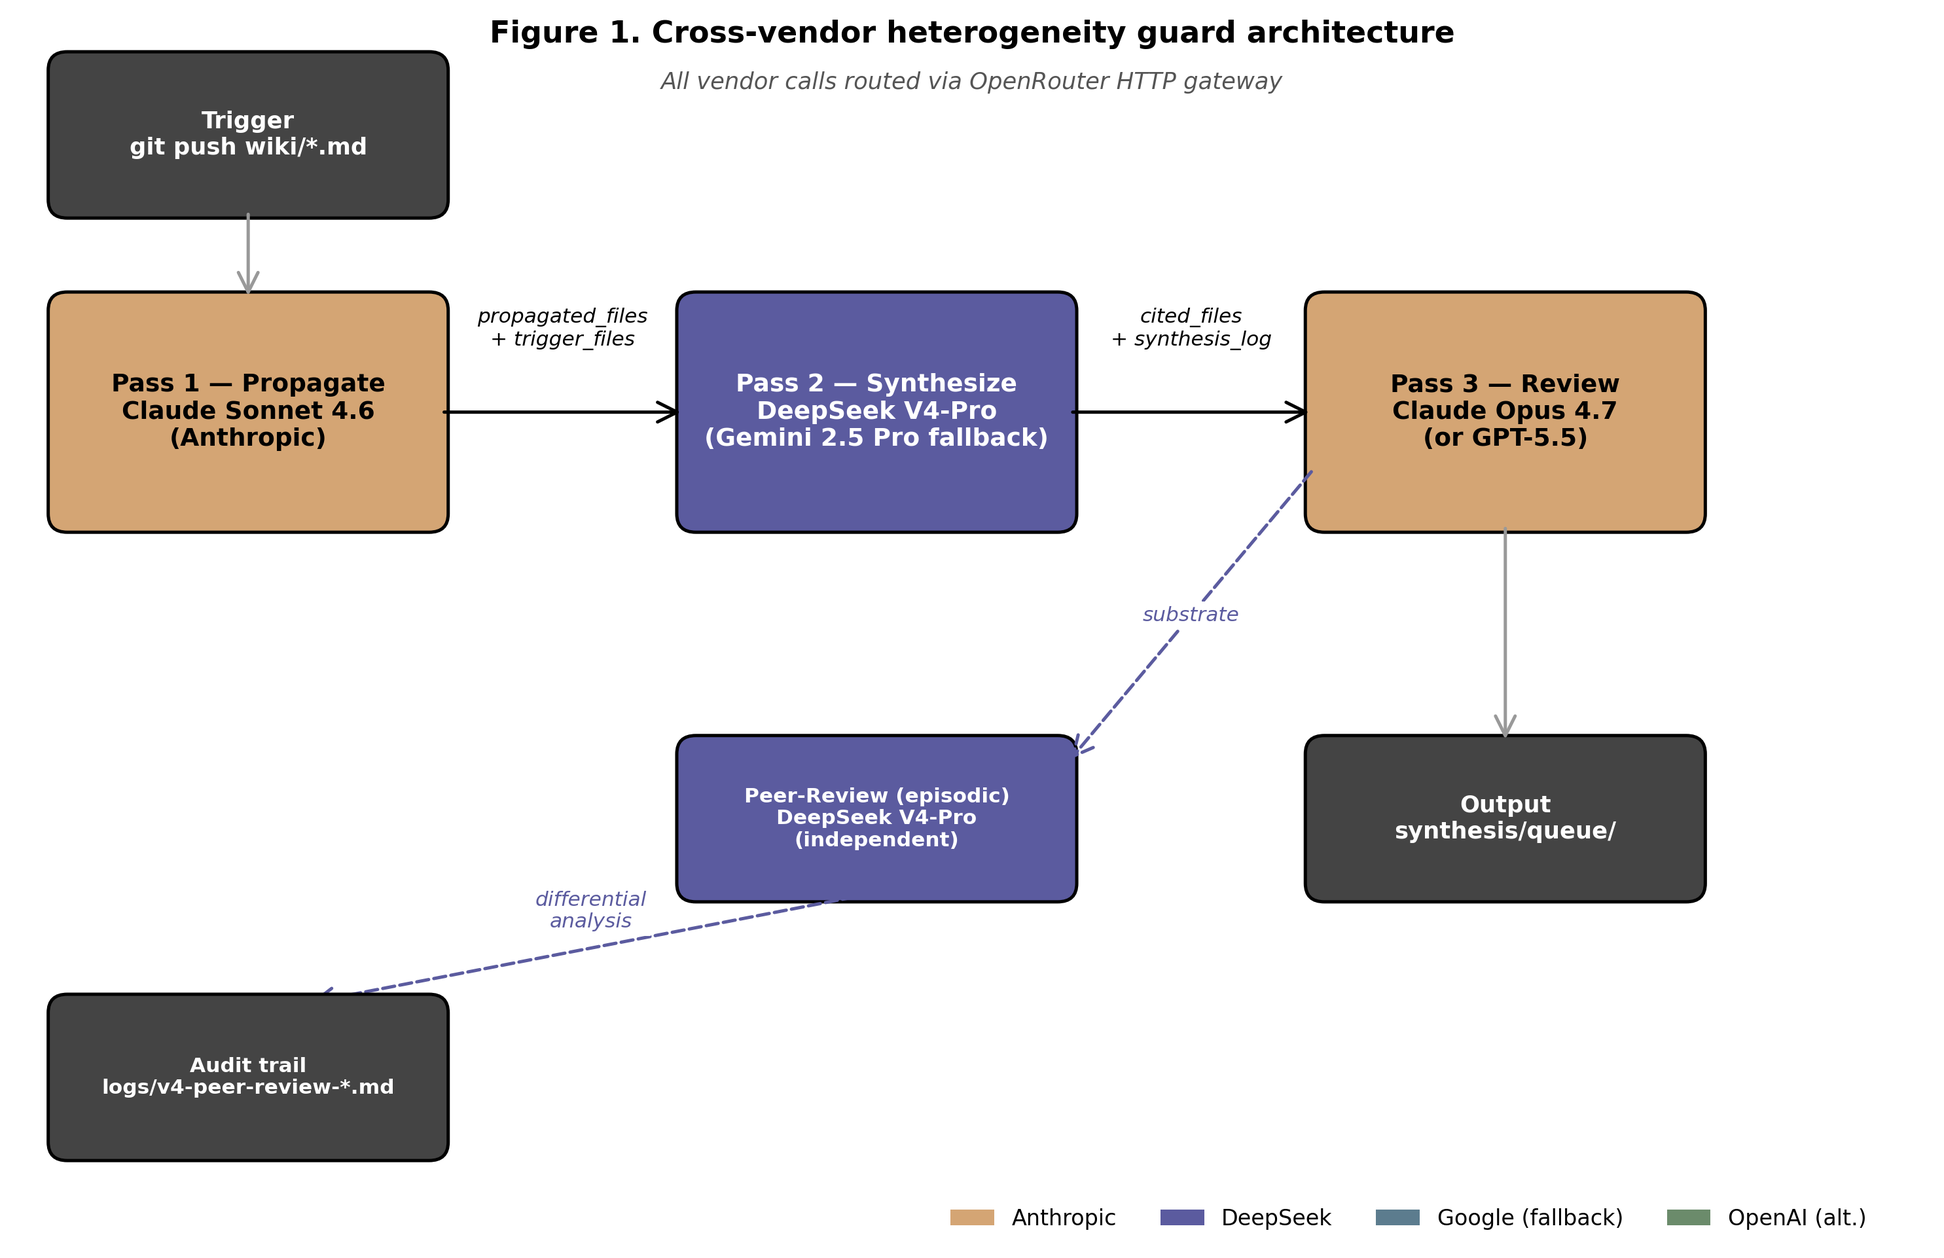
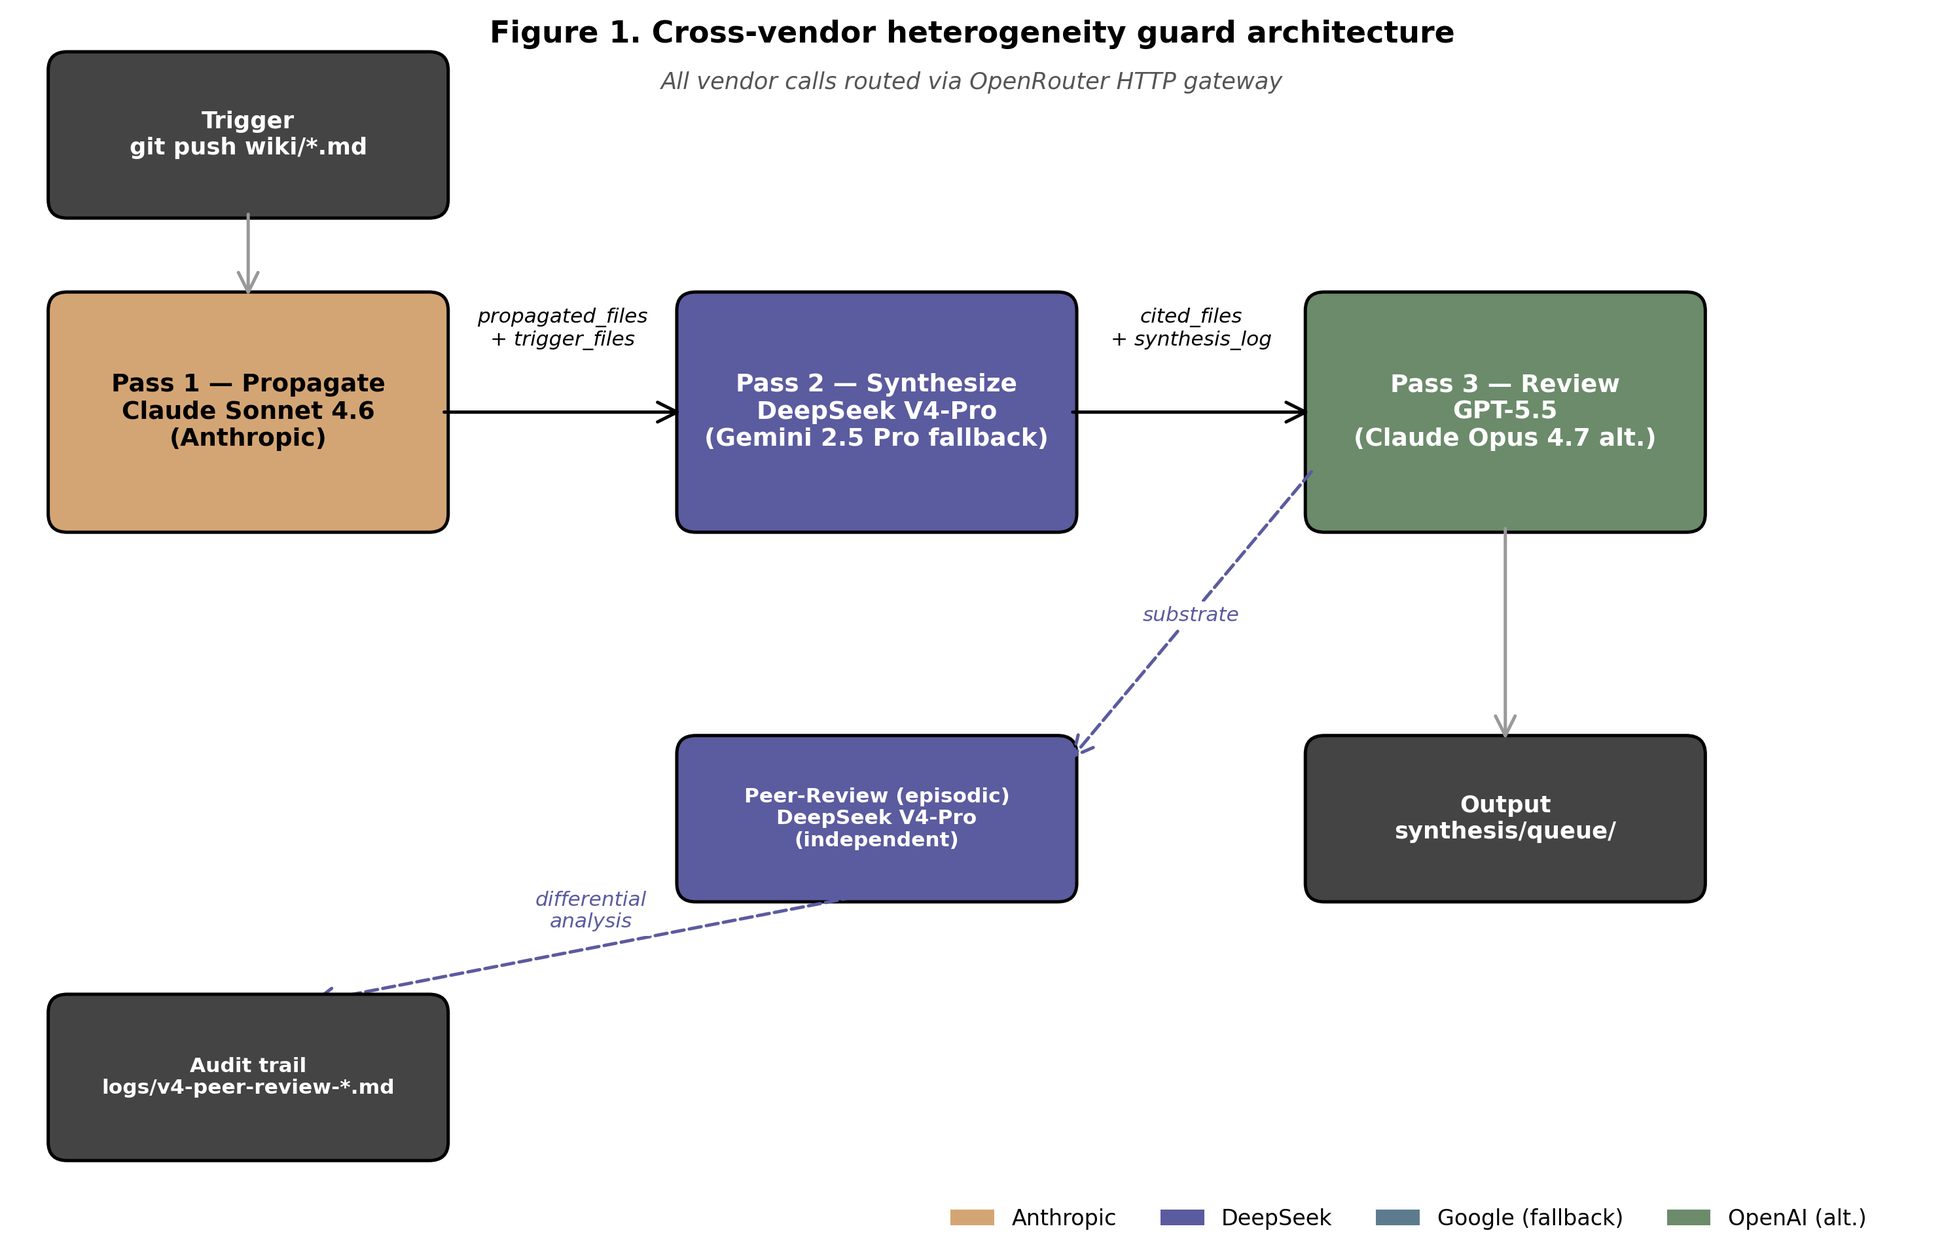
papers: catch 27 — Pass 3 default model corrected (GPT-5.5, not Opus) [skip-wiki-sweep]
Brian caught during his read that §3, Table 1, Figure 1, glossary,
and the abstract all said the Pass 3 reviewer was Anthropic Opus 4.7
primary with GPT-5.5 as alternate. Wrong. Per
.github/workflows/wiki-sweep.yml lines 22-24 and 351-357, GPT-5.5 has
been the default Pass 3 reviewer since 2026-05-08 (switched from Opus
after a three-way eval at evals/pass-3-reviewer/).

Corrections landed:
- §3 Pass 3 paragraph: leads with GPT-5.5, 2026-05-08 switch date,
  model-tuned prompt paths noted
- Table 1 row 3: GPT-5.5 default / Opus alternate
- Figure 1 Pass 3 box: GPT-5.5 with OpenAI green-grey color (not
  Anthropic amber); Claude Opus 4.7 demoted to "alt."
- Abstract vendor enumeration: Anthropic / DeepSeek / OpenAI (Gemini
  as Pass 2 alternate)
- Glossary Pass 2 + Pass 3 entries
- paperorchestra-workspace/inputs/experimental_log.md
- Figure 1 PDF + PNG regenerated

Logged in revisions.md as Catch 27 with the reflexive narrative:
Gemini's Session 7 review of §3 caught framing issues but did NOT
ground-truth-verify the Pass 3 model identity against the workflow
file. Cross-vendor review and pre-commit grep-verify gate are
complementary — review catches framing; grep-verify catches
factual mismatches with code. Future review prompts should
explicitly request architectural-claim verification against named
source files.

Changed region(s): [[0.6505, 0.2185, 0.8983, 0.437]]

diff --git a/papers/cross-vendor-heterogeneity-guard/figures/figure1_architecture.py b/papers/cross-vendor-heterogeneity-guard/figures/figure1_architecture.py
@@ -87,8 +87,8 @@ def main():
 
     # Pass 3
     make_box(ax, 6.8, 3.8, 2.0, 1.2,
-             "Pass 3 — Review\nClaude Opus 4.7\n(or GPT-5.5)",
-             fc=COLORS["anthropic"], text_color="black")
+             "Pass 3 — Review\nGPT-5.5\n(Claude Opus 4.7 alt.)",
+             fc=COLORS["openai"])
 
     # Inter-pass artifacts
     arrow(ax, 2.2, 4.4, 3.5, 4.4,

diff --git a/papers/cross-vendor-heterogeneity-guard/draft.md b/papers/cross-vendor-heterogeneity-guard/draft.md
@@ -9,7 +9,7 @@ Open Enzyme · brian.abent@gmail.com
 
 ## Abstract
 
-AI-assisted literature synthesis is becoming load-bearing infrastructure for scientific research. A new failure mode emerges when a single AI model is the sole synthesizer of a long-lived knowledge corpus: the corpus accumulates that model's blind spots and biases over time, with each individual edit plausible and internally consistent but the cumulative drift invisible without an outside reference. We call this drift *epistemic homogenization* and distinguish it from per-output hallucination. We argue that the right granularity of defense is **cross-vendor heterogeneity** — routing successive synthesis passes through frontier models trained by different companies, with different training corpora and different reinforcement-learning-from-human-feedback procedures. Existing multi-agent AI literature (debate, self-refine, jury-of-LLMs, Constitutional AI, automated-research systems) operates almost exclusively within a single vendor; the cross-vendor regime is under-explored as an explicit architectural commitment. We describe a production deployment of the cross-vendor pattern — the Open Enzyme wiki-sweep daemon, maintaining an ~80-page biotechnology research wiki via three operational passes assigned across Anthropic, DeepSeek, and Google models — and present four catches from ~3 weeks of operation that exemplify the failure classes the pattern protects against: a within-vendor hallucination cascade, an upstream-of-subagent framing contamination, an external-tool reliability failure, and a cross-vendor catch of a methodological risk invisible from within the dominant vendor's pipeline. The seminal catch — a DeepSeek peer-review pass surfacing the homogenization risk that the within-vendor pipeline had not named unprompted — is a concrete instance of the principle the architecture generalizes. We frame the contribution as a methodology case study with N=1 operational deployment and qualitative catches; controlled ablations comparing cross-vendor against alternative review architectures remain future work. The manuscript is drafted using its own methodology; a logged self-catch during drafting is preserved as the cleanest available reflexive evidence that the guard applies to its own production.
+AI-assisted literature synthesis is becoming load-bearing infrastructure for scientific research. A new failure mode emerges when a single AI model is the sole synthesizer of a long-lived knowledge corpus: the corpus accumulates that model's blind spots and biases over time, with each individual edit plausible and internally consistent but the cumulative drift invisible without an outside reference. We call this drift *epistemic homogenization* and distinguish it from per-output hallucination. We argue that the right granularity of defense is **cross-vendor heterogeneity** — routing successive synthesis passes through frontier models trained by different companies, with different training corpora and different reinforcement-learning-from-human-feedback procedures. Existing multi-agent AI literature (debate, self-refine, jury-of-LLMs, Constitutional AI, automated-research systems) operates almost exclusively within a single vendor; the cross-vendor regime is under-explored as an explicit architectural commitment. We describe a production deployment of the cross-vendor pattern — the Open Enzyme wiki-sweep daemon, maintaining an ~80-page biotechnology research wiki via three operational passes assigned across Anthropic, DeepSeek, and OpenAI models (with Google Gemini as a configured alternate at Pass 2) — and present four catches from ~3 weeks of operation that exemplify the failure classes the pattern protects against: a within-vendor hallucination cascade, an upstream-of-subagent framing contamination, an external-tool reliability failure, and a cross-vendor catch of a methodological risk invisible from within the dominant vendor's pipeline. The seminal catch — a DeepSeek peer-review pass surfacing the homogenization risk that the within-vendor pipeline had not named unprompted — is a concrete instance of the principle the architecture generalizes. We frame the contribution as a methodology case study with N=1 operational deployment and qualitative catches; controlled ablations comparing cross-vendor against alternative review architectures remain future work. The manuscript is drafted using its own methodology; a logged self-catch during drafting is preserved as the cleanest available reflexive evidence that the guard applies to its own production.
 
 ---
 
@@ -95,7 +95,7 @@ The system this paper describes is the **Open Enzyme wiki-sweep daemon**, a cont
 
 ![Figure 1. Cross-vendor heterogeneity guard architecture](./figures/figure1_architecture.png)
 
-**Figure 1.** Cross-vendor heterogeneity guard architecture as deployed on the Open Enzyme wiki-sweep daemon. Three operational passes are routed across distinct vendors via OpenRouter (Pass 1 Anthropic Sonnet, Pass 2 DeepSeek with Gemini fallback, Pass 3 Anthropic Opus or OpenAI alternative). An episodic peer-review pass by DeepSeek V4-Pro provides an independent cross-vendor verification surface that is not part of the per-edit critical path. Inter-pass artifact handoff (`propagated_files`, `cited_files`) is shown on the horizontal arrows; see §3 inter-pass handoff for details. Figure source: `figures/figure1_architecture.py`.
+**Figure 1.** Cross-vendor heterogeneity guard architecture as deployed on the Open Enzyme wiki-sweep daemon. Three operational passes are routed across distinct vendors via OpenRouter (Pass 1 Anthropic Sonnet, Pass 2 DeepSeek or Google Gemini, Pass 3 OpenAI GPT-5.5 with Claude Opus 4.7 as an alternate). An episodic peer-review pass by DeepSeek V4-Pro provides an independent cross-vendor verification surface that is not part of the per-edit critical path. Inter-pass artifact handoff (`propagated_files`, `cited_files`) is shown on the horizontal arrows; see §3 inter-pass handoff for details. Figure source: `figures/figure1_architecture.py`.
  The wiki is a Markdown corpus of ~80 long-form research pages plus a graph of cross-references, maintained as a living synthesis of the literature relevant to a single open-source biotechnology project (engineered food-grade fungal strains for therapeutic enzyme production). The daemon's job is to keep the corpus internally consistent and to surface novel connections across pages that no single human or model has explicitly stated.
 
 ### The three operational passes
@@ -106,7 +106,7 @@ The daemon orchestrates three OpenRouter-routed passes against three different v
 
 **Pass 2 — Synthesize (DeepSeek V4-Pro or Google Gemini 2.5 Pro).** Reads the full corpus (currently ~650k tokens) and emits cross-document synthesis: new connections, contradictions, open questions, and proposed experiments. Pass 2 is configured with two interchangeable vendor models — the choice between them on any given run is operational (load-balancing, API availability) rather than architectural; both are full primary backends. Each emitted finding ends with a `{{PEER-REVIEW}}` marker so Pass 3 knows where to insert a review blockquote (`scripts/sweep-prompt-2-synthesize.md`). The synthesis discipline is explicitly multi-level: single-link connections that already exist in the corpus are duplicates, but chains of two or three already-known links into a previously-unstated pattern are the daemon's central value.
 
-**Pass 3 — Review (Anthropic Claude Opus 4.7, or OpenAI GPT-5.5 in an alternative configuration).** Critiques each Pass 2 finding with a fixed verdict vocabulary: *Confirmed*, *Confirmed-prioritize*, *Partial*, *Push-back*, or *Rejected* (`scripts/sweep-prompt-3-review.md`). Pass 3 has read-only tool access (`read_file`, `list_files`, `grep`) for spot-checking primary sources; the iteration cap prevents runaway tool use. A deterministic Python emitter then writes one file per reviewed finding into a `synthesis/queue/` directory, where Brian closes items by appending a closure annotation and moving the file to `synthesis/done/`.
+**Pass 3 — Review (OpenAI GPT-5.5; Anthropic Claude Opus 4.7 available as an alternate configuration).** Critiques each Pass 2 finding with a fixed verdict vocabulary: *Confirmed*, *Confirmed-prioritize*, *Partial*, *Push-back*, or *Rejected*. The reviewer prompt is tuned per model — GPT-5.5 runs against `scripts/sweep-prompt-3-review-gpt55.md`; Claude Opus 4.7 runs against `scripts/sweep-prompt-3-review.md`. GPT-5.5 became the default reviewer on 2026-05-08 after a three-way eval (preserved at `evals/pass-3-reviewer/`) selected it over the Anthropic alternative. Pass 3 has read-only tool access (`read_file`, `list_files`, `grep`) for spot-checking primary sources; the iteration cap prevents runaway tool use. A deterministic Python emitter then writes one file per reviewed finding into a `synthesis/queue/` directory, where Brian closes items by appending a closure annotation and moving the file to `synthesis/done/`.
 
 ### Cross-vendor heterogeneity is the pattern, model assignments are an instance
 
@@ -229,7 +229,7 @@ Table 1 summarizes per-pass cost, latency, and token volume from representative 
 |---|---|---|---|---|---|---|
 | 1 | Propagate | Claude Sonnet 4.6 | Anthropic | $0.05–$0.20 | 2–3 min | trigger + affected pages (~50–150k) |
 | 2 | Synthesize | DeepSeek V4-Pro (primary), Gemini 2.5 Pro (fallback) | DeepSeek / Google | $0.40–$0.80 | 5–7 min | full corpus (~650k); 2026-04-28 Gemini run: $0.7288 |
-| 3 | Review | Claude Opus 4.7 (or GPT-5.5 alt.) | Anthropic / OpenAI | $0.05–$0.30 | 1–2 min + tool calls | warm cache (triggers + cited files); on-demand fetches |
+| 3 | Review | GPT-5.5 (default since 2026-05-08; Claude Opus 4.7 alternate) | OpenAI / Anthropic | $0.05–$0.30 | 1–2 min + tool calls | warm cache (triggers + cited files); on-demand fetches |
 | Peer-review (episodic) | Independent cross-vendor verification | DeepSeek V4-Pro | DeepSeek | $0.20–$0.30 | varies | full corpus; 2026-04-25 run: 467,964 in / 4,005 out, $0.2070 |
 | **Full three-pass sweep** | | | | **$0.50–$1.30** | **9–12 min** | |
 

diff --git a/papers/cross-vendor-heterogeneity-guard/revisions.md b/papers/cross-vendor-heterogeneity-guard/revisions.md
@@ -343,6 +343,26 @@ The manuscript is submission-ready pending only the Zenodo DOI minting (requires
 
 ---
 
+## Catch 27 — Pass 3 default reviewer model was wrong (caught by Brian during his read)
+
+**Source:** Brian's first reading-pass through `draft.md` (2026-05-13).
+
+**Claim under review:** §3 and Table 1 both said Pass 3 was "Anthropic Claude Opus 4.7, or OpenAI GPT-5.5 in an alternative configuration." Glossary said the same. Figure 1 box read "Pass 3 — Review · Claude Opus 4.7 (or GPT-5.5)". Abstract said "three operational passes assigned across Anthropic, DeepSeek, and Google models."
+
+**Verdict:** Rejected — factual error.
+
+**Reasoning:** `.github/workflows/wiki-sweep.yml` lines 22–24 and 352–357 show GPT-5.5 has been the **default** Pass 3 reviewer since 2026-05-08 (switched from Opus 4.7 after a three-way eval preserved at `evals/pass-3-reviewer/`). The Anthropic Opus configuration is the **alternate**, not the primary. The Claude-Opus framing in the manuscript reflected a pre-2026-05-08 configuration.
+
+**Correction applied:** §3 Pass 3 paragraph rewritten to lead with GPT-5.5 + the 2026-05-08 switch date; Claude Opus 4.7 demoted to "alternate" with its own model-tuned prompt path noted (`scripts/sweep-prompt-3-review-gpt55.md` for GPT-5.5 vs. `scripts/sweep-prompt-3-review.md` for Claude). Table 1 row 3 fixed. Figure 1 Pass 3 box updated to "GPT-5.5 / Claude Opus 4.7 alt." with the OpenAI green-grey vendor color, not Anthropic amber. Abstract vendor enumeration corrected to "Anthropic, DeepSeek, and OpenAI (with Google Gemini as a configured alternate at Pass 2)." Glossary Pass 2 + Pass 3 entries updated. Figure 1 PDF + PNG regenerated.
+
+**Why the cross-vendor review pass missed this in Session 7:** Gemini reviewed §3 + §6 + §7 in Session 7 and caught the "Gemini as fallback" framing (Catch 13) and the architectural vendor-collision in the peer-review pass (Catch 12) — but did NOT cross-check the Pass 3 model identity against the actual workflow file. The reviewer's brief asked for architectural-accuracy verification but Gemini operated on the manuscript's internal consistency rather than running ground-truth checks against `.github/workflows/wiki-sweep.yml`. This is a real failure-class instance: cross-vendor review caught framing/under-crediting issues but didn't catch a load-bearing model-identity mis-statement that primary-source verification would have caught. **A within-pipeline ground-truth verification step (the pre-commit grep-verify gate the paper itself advocates for, applied to the manuscript's own architectural claims against the actual workflow file) would have caught this.** Brian's institutional-memory catch is doing exactly what §5.1 says the pre-commit gate should have done at authoring time.
+
+**Class of failure:** within-vendor cascade in the manuscript's architectural description — the drafter (Claude) authored the Pass 3 description based on an older mental model of the daemon configuration without grep-verifying against the current `.github/workflows/wiki-sweep.yml`. Cross-vendor review (Gemini) didn't catch it because the reviewer's brief was about manuscript-internal consistency, not ground-truth-against-code. Caught by Brian's institutional knowledge during his first reading pass.
+
+**Lesson preserved for the methodology argument:** the paper's pre-commit grep-verify gate (§5.1) and the cross-vendor review pass (§5.4) are complementary, not redundant. Cross-vendor review is excellent at framing, vendor-skew, and overconfident-claim catches. It is much less reliable for "does this specific factual claim match the current state of the code" — that needs the grep-verify gate, ideally specified in the reviewer's brief. Future cross-vendor review prompts should explicitly include "verify load-bearing architectural claims against the named source file."
+
+---
+
 ## Future sessions
 
 Each subsequent drafting session appends a section to this file: what was drafted, who reviewed it, what was caught, what was changed in response. The final paper's Appendix B is generated from this log.

diff --git a/papers/cross-vendor-heterogeneity-guard/glossary.md b/papers/cross-vendor-heterogeneity-guard/glossary.md
@@ -36,9 +36,9 @@ Terms grouped by topic, not by section.
 
 **Pass 1 — Propagate.** First model (currently Anthropic Claude Sonnet 4.6) reads the edited file and propagates the new findings to any other wiki pages that cross-reference the affected concepts. Inline updates only; no synthesis.
 
-**Pass 2 — Synthesize.** Second model (currently DeepSeek V4-Pro primary, Google Gemini 2.5 Pro fallback) reads the entire corpus and emits cross-document synthesis: new connections, contradictions, open questions, proposed experiments. Each finding ends with a `{{PEER-REVIEW}}` marker so Pass 3 knows where to insert a review.
+**Pass 2 — Synthesize.** Second model (currently DeepSeek V4-Pro or Google Gemini 2.5 Pro — both configured as primary, choice is operational) reads the entire corpus and emits cross-document synthesis: new connections, contradictions, open questions, proposed experiments. Each finding ends with a `{{PEER-REVIEW}}` marker so Pass 3 knows where to insert a review.
 
-**Pass 3 — Review.** Third model (currently Anthropic Claude Opus 4.7, or OpenAI GPT-5.5 in an alternative configuration) critiques each Pass 2 finding with a fixed verdict vocabulary (*Confirmed* / *Confirmed-prioritize* / *Partial* / *Push-back* / *Rejected*). Has read-only tool access for primary-source spot-checks.
+**Pass 3 — Review.** Third model (currently OpenAI GPT-5.5; Anthropic Claude Opus 4.7 available as an alternate). GPT-5.5 became the default on 2026-05-08 after a three-way eval. Critiques each Pass 2 finding with a fixed verdict vocabulary (*Confirmed* / *Confirmed-prioritize* / *Partial* / *Push-back* / *Rejected*). Has read-only tool access for primary-source spot-checks. The reviewer prompt is model-tuned — `scripts/sweep-prompt-3-review-gpt55.md` for GPT-5.5, `scripts/sweep-prompt-3-review.md` for Claude.
 
 **Episodic peer-review pass.** A separate, formalized fourth pattern: an independent vendor's model receives the substrate (the wiki at a given commit) and produces a parallel synthesis plus a differential analysis against the daemon's output. Run when a major architectural change lands, when a class of synthesis output is suspect, or when the cost of a missed connection is high. The seminal instance is DeepSeek V4-Pro reviewing Claude Opus 4.7 on 2026-04-25 — the catch that motivated formalizing the cross-vendor daemon itself.
 

diff --git a/papers/cross-vendor-heterogeneity-guard/paperorchestra-workspace/inputs/experimental_log.md b/papers/cross-vendor-heterogeneity-guard/paperorchestra-workspace/inputs/experimental_log.md
@@ -28,7 +28,7 @@ incident from the operational logs.
 |---|---|---|---|
 | 1 | Propagate | Claude Sonnet 4.6 | Anthropic |
 | 2 | Synthesize | DeepSeek V4-Pro (primary), Gemini 2.5 Pro (fallback) | DeepSeek / Google |
-| 3 | Review | Claude Opus 4.7 (or GPT-5.5 alternative) | Anthropic / OpenAI |
+| 3 | Review | GPT-5.5 (default since 2026-05-08; Claude Opus 4.7 alternate) | OpenAI / Anthropic |
 | Peer-review (episodic) | Independent cross-vendor verification | DeepSeek V4-Pro | DeepSeek |
 
 ## 3. Cost and Latency Measurements
